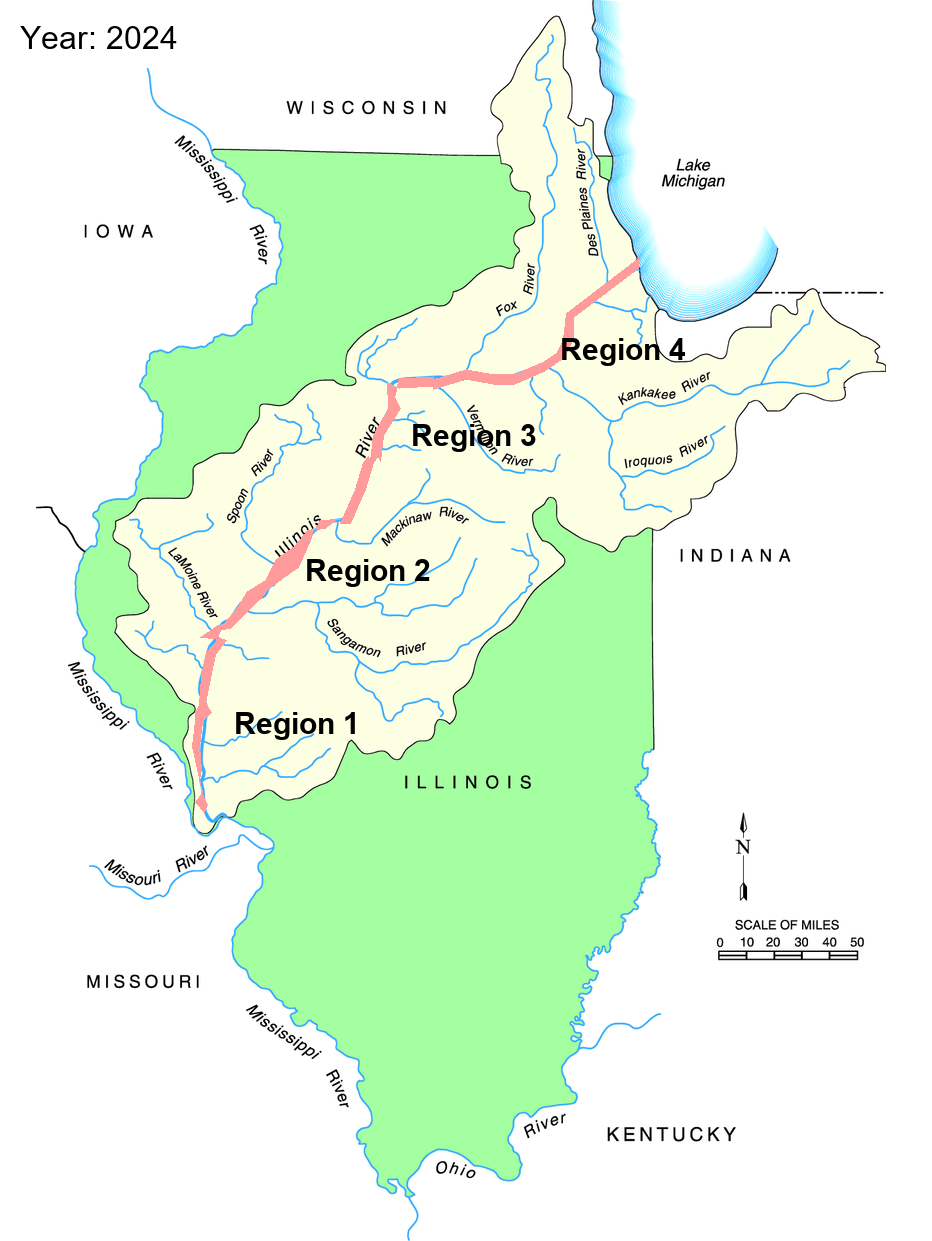
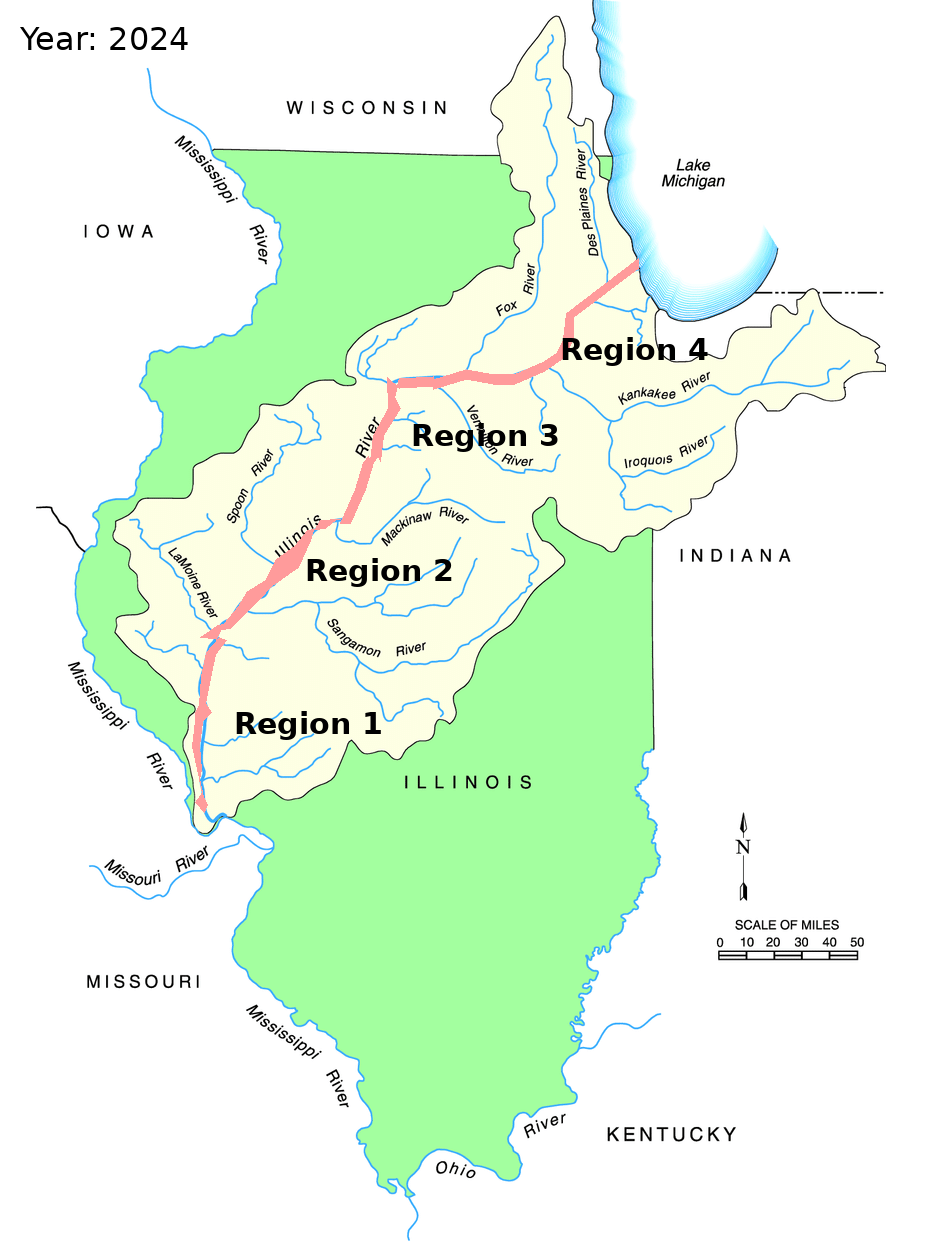
added PID depth hold to controller_sub.py

diff --git a/fishROS_ws/src/controller_node/controller_node/controller_sub.py b/fishROS_ws/src/controller_node/controller_node/controller_sub.py
@@ -14,6 +14,7 @@ from rclpy.executors import MultiThreadedExecutor
 from sensor_msgs.msg import Joy
 from geometry_msgs.msg import Twist
 from geometry_msgs.msg import Point
+from std_msgs.msg import Float32
 
 # Static global variables
 LOW_SENSITIVITY = 0.5  # This is basically how much inputs are scaled when in sensitive mode
@@ -24,6 +25,11 @@ controller_init = False
 axes = []
 buttons = []
 sensitivity = 1
+depth_hold = False # if depth holding is on
+old_press = 0
+hold_depth = 0 # depth to hold
+current_depth = 0 # current rov depth
+depth_received = False
 
 
 class ControllerSub(Node):
@@ -67,7 +73,7 @@ class ControllerSub(Node):
         Whereas an angle of 90 resulted in slow forward motion.
         """
 
-        global controller_init, axes, buttons, sensitivity
+        global controller_init, axes, buttons, sensitivity, old_press, depth_hold, current_depth, hold_depth
         axes = msg.axes
         buttons = msg.buttons
         controller_init = True
@@ -77,29 +83,98 @@ class ControllerSub(Node):
             sensitivity = LOW_SENSITIVITY
         if buttons[1] == 1:
             sensitivity = HIGH_SENSITIVITY
-        
+
+        # Toggle state with X button
+        if buttons[2] == 1 and old_press == 0:
+            old_press = 1
+            depth_hold = not depth_hold
+            if depth_hold:
+                hold_depth = current_depth
+        if buttons[2] == 0:
+            old_press = 0
+
+
+class Bar02Sub(Node):
+
+    def __init__(self):
+        super().__init__('bar02/depth_subscriber')
+        self.subscription = self.create_subscription(
+            Float32,
+            'bar02/depth',
+            self.listener_callback,
+            10)
+
+    def listener_callback(self, msg):
+        global current_depth, depth_received
+
+        current_depth = msg.data
+        depth_received = True
+
+
+# PID for Depth Hold    
+class PIDController: # need to add a cap so that it doesn't go too far
+
+    def __init__(self, kp, ki, kd):
+        self.kp = kp
+        self.ki = ki
+        self.kd = kd
+        self.integral = 0.0
+        self.prev_error = 0.0
+        self.prev_time = None
+
+    def compute(self, setpoint, measurement):
+        current_time = time.time()
+        error = setpoint - measurement
+        dt = current_time - self.prev_time if self.prev_time else 0.0
+
+        if dt > 0:
+            self.integral += error * dt
+            derivative = (error - self.prev_error) / dt
+        else:
+            derivative = 0.0
+
+        output = self.kp * error + self.ki * self.integral + self.kd * derivative
+        self.prev_error = error
+        self.prev_time = current_time
+
+        output = max(min(output, 1.0), -1.0)
+        return output
+
 
 class TwistPub(Node):
     def __init__(self):
         # Creating the publisher
         super().__init__("twist_publisher")
         self.publisher = self.create_publisher(Twist, 'twist', 10)
+        self.depth_pid = PIDController(kp=2.0, ki=0.0, kd=0.0) # needs tuning
         timer_period = 0.01  # The timer period is the same as the callback period
         self.timer = self.create_timer(timer_period, self.publishTwist)
 
 
     def publishTwist(self):
+        global hold_depth
+
         if controller_init:
             twist_message = Twist()
 
             # Linear Motion - (x, y, z), scaling inputs by sensitivity
             twist_message.linear.x = axes[1] * sensitivity
             twist_message.linear.y = axes[0] * sensitivity
+
             if axes[2] < axes[5]:
                 linear_z = (axes[2] - 1) / 2
             else:
                 linear_z = -(axes[5] - 1) / 2
-            twist_message.linear.z = linear_z * sensitivity
+
+            # If there's manual input, override PID and reset hold_depth
+            if abs(linear_z) > 0.05:
+                twist_message.linear.z = linear_z * sensitivity
+                hold_depth = current_depth  # Update the target for PID
+            elif depth_hold and depth_received:
+                # Use PID only if no manual input
+                twist_message.linear.z = self.depth_pid.compute(hold_depth, current_depth) # change to negative if positive Z makes ROV go down
+            else:
+                twist_message.linear.z = 0.0  # Neutral
 
             # Angular Motion - Just yaw for now
             twist_message.angular.x = 0.0
@@ -135,9 +210,12 @@ def main(args=None):
     controller_sub = ControllerSub()
     twist_pub = TwistPub()
     point_pub = PointPub()
+    bar02_sub = Bar02Sub()
+
     executor.add_node(controller_sub)
     executor.add_node(twist_pub)
     executor.add_node(point_pub)
+    executor.add_node(bar02_sub)
 
     # Launching the executor
     executor.spin()
@@ -146,6 +224,7 @@ def main(args=None):
     controller_sub.destroy_node()
     twist_pub.destroy_node()
     point_pub.destroy_node()
+    bar02_sub.destroy_node()
 
     # Shutting down the program
     rclpy.shutdown()

diff --git a/carpMap/carp.py b/carpMap/carp.py
@@ -3,7 +3,7 @@ from PIL import Image, ImageDraw
 from PIL import ImageFont
 import os
 
-base_map = Image.open(r"d:\Bao Truong\Pictures\Location-of-the-Illinois-River-basin resized base.png").convert("RGBA")
+base_map = Image.open(r"/home/ubuntu/24-25WaterCode/carpMap/Location-of-the-Illinois-River-basin resized base.png").convert("RGBA")
 
 b1x=204
 b1y=812
@@ -28,7 +28,7 @@ region_coords = {
                  (764, 259), (748, 296), (723, 311), (696, 314), (656, 318), (641, 282), (632, 234), (606, 198), (613, 169)],
 }
 
-df = pd.read_csv(r"D:\Bao Truong\Downloads\D - Sheet1.csv")
+df = pd.read_csv(r"/home/ubuntu/24-25WaterCode/carpMap/CarpData.csv")
 
 os.makedirs("frames", exist_ok=True)
 frames = []
@@ -50,11 +50,11 @@ for _, row in df.iterrows():
             label_x = avg_x + 30
             label_y = avg_y - 20
 
-            region_font = ImageFont.truetype("arialbd.ttf", 30)
+            region_font = ImageFont.truetype("/usr/share/fonts/truetype/dejavu/DejaVuSans-Bold.ttf", 30)
             draw.text((label_x, label_y), "Region " + region_number, font = region_font, fill = "black")
 
 
-    font = ImageFont.truetype("arial.ttf", 32)
+    font = ImageFont.truetype("/usr/share/fonts/truetype/dejavu/DejaVuSans.ttf", 32)
     text = f"Year: {year}"
     text_size = draw.textbbox((0,0), text, font=font)
     draw.rectangle([text_size[0] + 15, text_size[1] + 15, text_size[2] + 15, text_size[3] + 15], fill=(255, 255, 255, 200))
